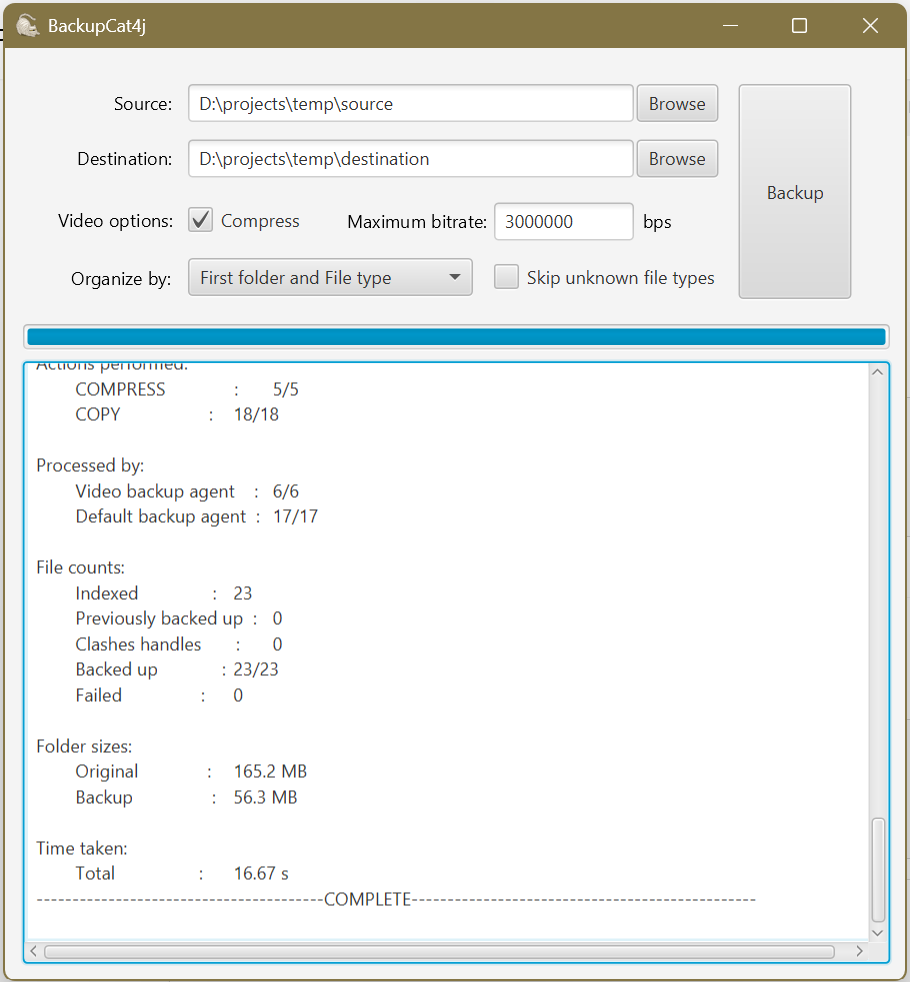
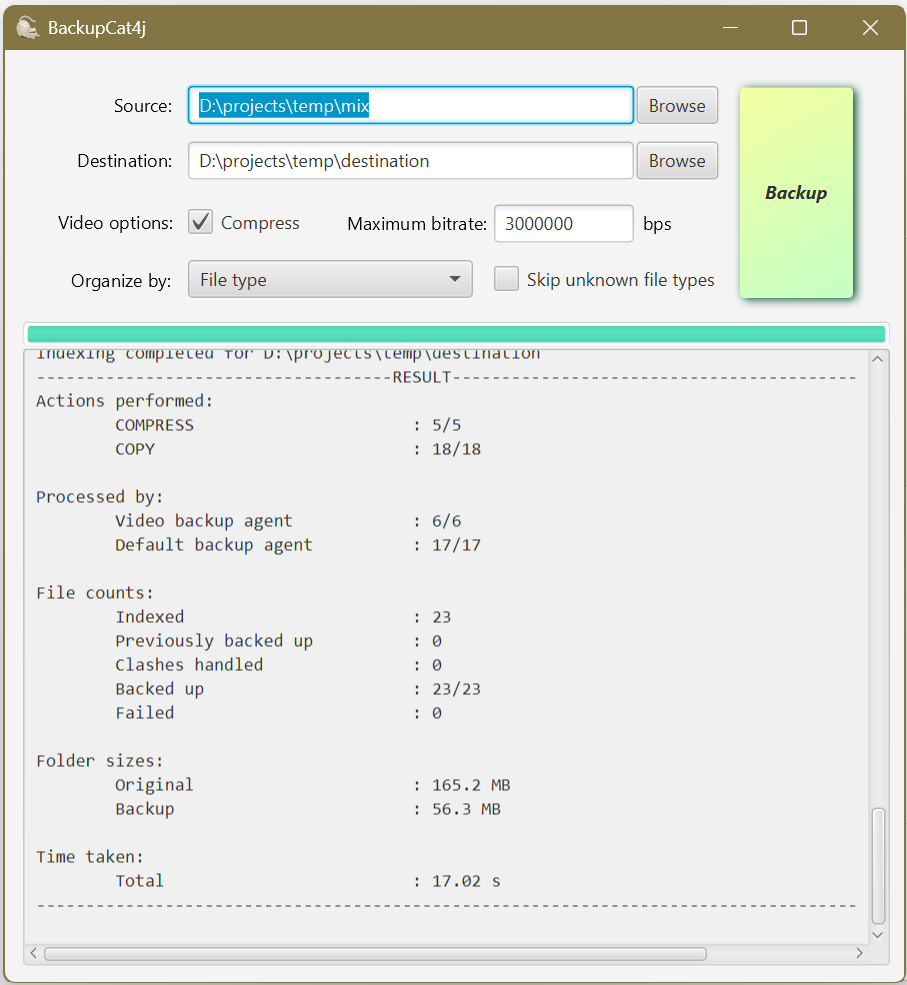
UI styling, ffmpeg path bug fix

diff --git a/src/main/java/org/kapps/BackupController.java b/src/main/java/org/kapps/BackupController.java
@@ -10,14 +10,16 @@ import javafx.stage.Stage;
 import org.kapps.backup.BackupOptions;
 import org.kapps.backup.BackupService;
 import org.kapps.backup.OrganizeMode;
-import org.kapps.logger.TextAreaAppender;
+import org.kapps.progress.TextAreaAppender;
 import org.slf4j.Logger;
 import org.slf4j.LoggerFactory;
 import org.springframework.beans.factory.annotation.Autowired;
 import org.springframework.stereotype.Component;
+import org.springframework.util.StringUtils;
 
 import java.io.File;
 import java.io.IOException;
+import java.nio.file.Files;
 import java.nio.file.Path;
 import java.nio.file.Paths;
 
@@ -67,6 +69,10 @@ public class BackupController {
         maxBitRate.setDisable(false);
         maxBitRate.setText("3000000");
 
+        addErrorClearingListener(sourceInput);
+        addErrorClearingListener(destinationInput);
+        addErrorClearingListener(maxBitRate);
+
         // Initiate console log
         TextAreaAppender appender = new TextAreaAppender();
         appender.setContext((LoggerContext) LoggerFactory.getILoggerFactory());
@@ -109,15 +115,25 @@ public class BackupController {
 
     @FXML
     void submit(MouseEvent event) {
-        // Read inputs
-        Path ffmpegPath = Paths.get("ffmpeg", "ffmpeg.exe").toAbsolutePath();
-        logger.info("ffmpeg: {}", ffmpegPath);
-        Path ffprobePath = Paths.get("ffmpeg", "ffprobe.exe").toAbsolutePath();
-        logger.info("ffprobe: {}", ffprobePath);
         String source = sourceInput.getText();
         String destination = destinationInput.getText();
+        if (!StringUtils.hasLength(source)) {
+            consoleArea.setText("ERROR: Source not selected");
+            return;
+        } else if (!StringUtils.hasLength(destination)) {
+            consoleArea.setText("ERROR: Destination not selected");
+            return;
+        }
+
         boolean compressVideos = compressCheckBox.isSelected();
-        long maxAvgBitRate = Long.parseLong(maxBitRate.getText());
+        long maxAvgBitRate;
+        try {
+            maxAvgBitRate = Long.parseLong(maxBitRate.getText());
+        } catch (Exception e) {
+            consoleArea.setText("ERROR: Maximum bitrate is not a number - " + maxBitRate.getText());
+            return;
+        }
+
         OrganizeMode organizeMode;
         switch (organizeChoiceBox.getValue()) {
             case "File type" -> organizeMode = OrganizeMode.FULL;
@@ -126,12 +142,33 @@ public class BackupController {
         }
         boolean skipOtherFileTypes = skipOthers.isSelected();
 
+        Path ffmpegPath;
+        Path ffprobePath;
+        Path currentPath = Paths.get("/").toAbsolutePath();
+        if(currentPath.endsWith("bin")) {
+            ffmpegPath = Paths.get("ffmpeg", "ffmpeg.exe").toAbsolutePath();
+            ffprobePath = Paths.get("ffmpeg", "ffprobe.exe").toAbsolutePath();
+        } else {
+            ffmpegPath = Paths.get("bin/ffmpeg", "ffmpeg.exe").toAbsolutePath();
+            ffprobePath = Paths.get("bin/ffmpeg", "ffprobe.exe").toAbsolutePath();
+        }
+
+        if (!Files.exists(ffmpegPath)) {
+            consoleArea.setText("ERROR: ffmpeg missing at " + ffmpegPath);
+            return;
+        } else if (!Files.exists(ffprobePath)) {
+            consoleArea.setText("ERROR: ffprobe missing at " + ffprobePath);
+            return;
+        }
+        logger.info("ffmpeg: {}", ffmpegPath);
+        logger.info("ffprobe: {}", ffprobePath);
+
         BackupOptions backupOptions = BackupOptions.builder()
                 .source(source)
                 .target(destination)
                 .replace(true)
-                .ffmpeg("D:\\apps\\ffmpeg-7.1.1-essentials_build\\bin\\ffmpeg.exe")
-                .ffprobe("D:\\apps\\ffmpeg-7.1.1-essentials_build\\bin\\ffprobe.exe")
+                .ffmpeg(ffmpegPath.toString())
+                .ffprobe(ffprobePath.toString())
                 .compressVideos(compressVideos)
                 .maxAvgBitRate(maxAvgBitRate)
                 .organize(organizeMode)
@@ -141,7 +178,7 @@ public class BackupController {
 
         consoleArea.clear();
         backupButton.setDisable(true);
-
+        consoleArea.requestFocus();
         // Backup
         new Thread(() -> {
             try {
@@ -152,6 +189,13 @@ public class BackupController {
                 backupButton.setDisable(false);
             }
         }).start();
+    }
+
+    private void addErrorClearingListener(TextField field) {
+        field.textProperty().addListener((obs, oldText, newText) -> {
+            consoleArea.setText("");
+            field.setStyle(""); // optional: clear red border
+        });
     }
 
     private static Stage getStage(MouseEvent event) {

diff --git a/src/main/java/org/kapps/backup/BackupService.java b/src/main/java/org/kapps/backup/BackupService.java
@@ -3,6 +3,7 @@ package org.kapps.backup;
 import com.google.common.base.Stopwatch;
 import org.kapps.index.FileIndexer;
 import org.kapps.index.IndexedFile;
+import org.kapps.progress.ProgressTracker;
 import org.kapps.utils.BackupUtils;
 import org.slf4j.Logger;
 import org.slf4j.LoggerFactory;
@@ -92,7 +93,7 @@ public class BackupService {
             List<BackupResult> backupResults,
             Stopwatch sw
     ) {
-        logger.info("-------------------------------------------RESULT-----------------------------------------------");
+        logger.info("------------------------------------RESULT-----------------------------------------");
 
         // Errors
         Set<BackupResult> failed = backupResults.stream().filter(result -> !result.getStatus()).collect(Collectors.toSet());
@@ -109,7 +110,7 @@ public class BackupService {
         Map<BackupAction, List<BackupResult>> groupedByAction = backupResults.stream().collect(Collectors.groupingBy(BackupResult::getBackupAction));
         groupedByAction.forEach((action, results) -> {
             long success = results.stream().filter(BackupResult::getStatus).count();
-            logger.info(String.format("\t%-22s:\t%d/%d", action, success, results.size()));
+            logger.info(String.format("\t%s:\t%d/%d", fixedLength(action.toString(), 30), success, results.size()));
         });
 
 
@@ -119,34 +120,44 @@ public class BackupService {
         Map<String, List<BackupResult>> grouppedByAgent = backupResults.stream().collect(Collectors.groupingBy(BackupResult::getAgent));
         grouppedByAgent.forEach((agent, results) -> {
             long success = results.stream().filter(BackupResult::getStatus).count();
-            logger.info(String.format("\t%-22s:\t%d/%d", agent, success, results.size()));
+            logger.info(String.format("\t%s:\t%d/%d", fixedLength(agent, 30), success, results.size()));
         });
 
         logger.info("");
         logger.info("File counts:");
-        logger.info("\tIndexed               :\t{}", indexedFiles.size());
+        logger.info("\t{}:\t{}", fixedLength("Indexed", 30), indexedFiles.size());
         int previous = indexedFiles.size() - pendingIndexedFiles.size();
-        logger.info("\tPreviously backed up  :\t{}", previous);
+        logger.info("\t{}:\t{}", fixedLength("Previously backed up", 30), previous);
         // clashes
         long clashes = pendingIndexedFiles.stream().filter(i -> StringUtils.hasLength(i.getSuffix())).count();
-        logger.info("\tClashes handles       :\t{}", clashes);
+        logger.info("\t{}:\t{}", fixedLength("Clashes handled", 30), clashes);
         // total
         long backedUpCount = backupResults.stream().filter(BackupResult::getStatus).count();
-        logger.info("\tBacked up             :\t{}/{}", backedUpCount, pendingIndexedFiles.size());
-        logger.info("\tFailed                :\t{}", failed.size());
+        logger.info("\t{}:\t{}/{}", fixedLength("Backed up", 30), backedUpCount, pendingIndexedFiles.size());
+        logger.info("\t{}:\t{}", fixedLength("Failed", 30), failed.size());
 
         // size
         long originalSize = indexedFiles.stream().mapToLong(IndexedFile::getSize).sum();
         long backupSize = targetIndexedFiles.stream().mapToLong(IndexedFile::getSize).sum();
         logger.info("");
         logger.info("Folder sizes:");
-        logger.info("\tOriginal              :\t{}", BackupUtils.humanReadableByteCount(originalSize));
-        logger.info("\tBackup                :\t{}", BackupUtils.humanReadableByteCount(backupSize));
+        logger.info("\t{}:\t{}", fixedLength("Original", 30), BackupUtils.humanReadableByteCount(originalSize));
+        logger.info("\t{}:\t{}", fixedLength("Backup", 30), BackupUtils.humanReadableByteCount(backupSize));
 
         // time
         logger.info("");
         logger.info("Time taken:");
-        logger.info("\tTotal                 :\t{}", sw.stop());
-        logger.info("----------------------------------------COMPLETE------------------------------------------------");
+        logger.info("\t{}:\t{}", fixedLength("Total", 30), sw.stop());
+        logger.info("-----------------------------------------------------------------------------------");
     }
+
+    private static String fixedLength(String input, int length) {
+        if (input == null) input = "";
+        if (input.length() > length) {
+            return input.substring(0, length);  // Truncate
+        } else {
+            return String.format("%-" + length + "s", input);  // Pad with spaces
+        }
+    }
+
 }

diff --git a/src/main/java/org/kapps/progress/ProgressTracker.java b/src/main/java/org/kapps/progress/ProgressTracker.java
@@ -1,7 +1,9 @@
-package org.kapps.backup;
+package org.kapps.progress;
 
 import com.fasterxml.jackson.databind.ObjectMapper;
 import org.apache.commons.io.input.ReversedLinesFileReader;
+import org.kapps.backup.BackupOptions;
+import org.kapps.backup.BackupResult;
 import org.kapps.index.FileIndexer;
 import org.kapps.index.IndexedFile;
 import org.kapps.utils.BackupUtils;
@@ -10,7 +12,6 @@ import org.slf4j.Logger;
 import org.slf4j.LoggerFactory;
 
 import java.io.BufferedWriter;
-import java.io.File;
 import java.io.IOException;
 import java.nio.file.Files;
 import java.nio.file.Path;

diff --git a/src/main/java/org/kapps/progress/ProgressParser.java b/src/main/java/org/kapps/progress/ProgressParser.java
@@ -1,12 +1,10 @@
-package org.kapps.logger;
+package org.kapps.progress;
 
 public class ProgressParser {
 
     public static Integer parseLogLine(String logLine) {
-        System.out.println("+++++++" + logLine);
         if (logLine != null && logLine.contains("-Progress-")) {
             String[] split = logLine.split("\\|");
-            System.out.println("Progress ? " + split[1]);
             return (int) Double.parseDouble(split[1]);
         }
         return null;

diff --git a/src/main/java/org/kapps/backup/impl/DefaultBackupAgent.java b/src/main/java/org/kapps/backup/impl/DefaultBackupAgent.java
@@ -39,6 +39,7 @@ public class DefaultBackupAgent implements BackupAgent {
             Path targetPath = BackupUtils.getDefaultTargetPath(indexedFile, backupOptions);
 
             if (Files.exists(targetPath)) {
+                logger.info("File already exists: {}", indexedFile.getPath());
                 return resultBuilder
                         .backupAction(SKIP)
                         .status(true)

diff --git a/src/test/java/org/kapps/BackupServiceTest.java b/src/test/java/org/kapps/BackupServiceTest.java
@@ -6,6 +6,7 @@ import org.junit.jupiter.api.Test;
 import org.kapps.backup.*;
 import org.kapps.index.FileIndexer;
 import org.kapps.index.IndexedFile;
+import org.kapps.progress.ProgressTracker;
 import org.kapps.utils.Directories;
 import org.kapps.utils.FileUtils;
 import org.kapps.utils.TestUtils;

diff --git a/src/main/java/org/kapps/progress/TextAreaAppender.java b/src/main/java/org/kapps/progress/TextAreaAppender.java
@@ -1,4 +1,4 @@
-package org.kapps.logger;
+package org.kapps.progress;
 
 import ch.qos.logback.classic.spi.ILoggingEvent;
 import ch.qos.logback.core.AppenderBase;
